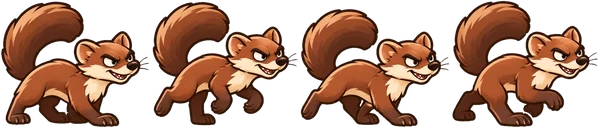
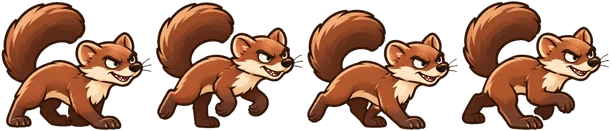
Animazioni: attacco della Faina, camminata e attacco della Mucca, volo del Corvo
Claude-Session: https://claude.ai/code/session_01HfaWZ85fbzKyRqfxnb746i

diff --git a/index.html b/index.html
@@ -1304,8 +1304,13 @@ const ORDERS={
 const IMG={};
 // personaggi animati (cartella icons/anim/): striscia orizzontale di n fotogrammi, il personaggio guarda a destra.
 // stride = pixel percorsi per fotogramma; h = altezza in campo. Chi non è qui usa l'icona nel tondino.
-const ANIM={faina:{src:'icons/anim/faina-walk.webp',n:4,fw:150,fh:128,h:34,stride:7}};
-for(const k in ANIM){ANIM[k].im=new Image();ANIM[k].im.src=ANIM[k].src}
+const ANIM={
+  faina:{h:31,stride:7,walk:{n:4,fw:153,fh:131,ax:.5},atk:{n:4,fw:167,fh:130,ax:.516}},
+  mucca:{h:40,stride:6,walk:{n:4,fw:176,fh:134,ax:.5},atk:{n:4,fw:191,fh:139,ax:.459}},
+  corvo:{h:40,fly:{n:4,fw:153,fh:183,ax:.994,ox:62}},
+};
+// file: icons/anim/<personaggio>-walk|atk|fly.webp; ax = punto d'aggancio nel fotogramma (0 sinistra, 1 destra), ox = suo spostamento dal centro (px a scala 128)
+for(const k in ANIM)for(const m of ['walk','atk','fly'])if(ANIM[k][m]){const a=ANIM[k][m];a.im=new Image();a.im.src=`icons/anim/${k}-${m}.webp`}
 // icone disegnate degli ordini (cartella icons/, file ord-<chiave>.webp); se non si caricano resta l'emoji
 const OIMG={};
 for(const k in ORDERS){ORDERS[k].img='icons/ord-'+k+'.webp';const im=new Image();im.src=ORDERS[k].img;OIMG[k]=im}
@@ -2066,19 +2071,22 @@ function drawToken1(x,y,side,type,star,order,o={}){
   let yy=y; if(d.flying){ctx.fillStyle='rgba(0,0,0,.22)';ctx.beginPath();ctx.ellipse(x,y+10,11,4,0,0,7);ctx.fill();yy=y-12}
   const lx=o.lunge>0?o.face*5:0;
   ctx.globalAlpha=o.invis?.38:o.disguised?.6:1;
-  const A=ANIM[type],sp=A&&A.im.complete&&A.im.naturalWidth;
-  if(sp){// personaggio animato: anello ovale del colore della squadra ai piedi, poi il fotogramma della camminata
-    const fy=y+13,ring=o.col||SIDE[side].col;
+  const A=ANIM[type],ld=a=>a&&a.im.complete&&a.im.naturalWidth,base=A&&(ld(A.walk)?A.walk:ld(A.fly)?A.fly:null),sp=!!base;
+  if(sp){// personaggio animato: anello ovale del colore della squadra ai piedi, poi il fotogramma giusto
+    const fy=y+13,ring=o.col||SIDE[side].col,now=performance.now()/1000;
     if(d.flying){ctx.fillStyle='rgba(0,0,0,.22)';ctx.beginPath();ctx.ellipse(x,y+10,13,4.5,0,0,7);ctx.fill()}
     else{ctx.fillStyle='rgba(0,0,0,.25)';ctx.beginPath();ctx.ellipse(x,fy,15,5.5,0,0,7);ctx.fill()}
-    if(o.sel){ctx.strokeStyle='#fff';ctx.lineWidth=3;ctx.beginPath();ctx.ellipse(x,fy,21,8,0,0,7);ctx.stroke()}
-    ctx.strokeStyle=ring;ctx.lineWidth=3;ctx.beginPath();ctx.ellipse(x,fy,16.5,6,0,0,7);ctx.stroke();
-    if(star>1){ctx.save();if(star===3){ctx.shadowColor='#ffd54a';ctx.shadowBlur=8}ctx.strokeStyle=star===3?'#ffd54a':'#e6ebf2';ctx.lineWidth=2;ctx.beginPath();ctx.ellipse(x,fy,19.5,7.5,0,0,7);ctx.stroke();ctx.restore()}
-    const ph=(o.walk||0)/A.stride,f=o.moving?Math.floor(ph)%A.n:0,bob=o.moving?-Math.abs(Math.sin(ph*Math.PI))*1.6:0;
-    const fh=A.h,fw=fh*A.fw/A.fh,top=(d.flying?yy+10:fy+2)-fh+bob;
+    const ry=d.flying?y+10:fy;
+    if(o.sel){ctx.strokeStyle='#fff';ctx.lineWidth=3;ctx.beginPath();ctx.ellipse(x,ry,21,8,0,0,7);ctx.stroke()}
+    ctx.strokeStyle=ring;ctx.lineWidth=3;ctx.beginPath();ctx.ellipse(x,ry,16.5,6,0,0,7);ctx.stroke();
+    if(star>1){ctx.save();if(star===3){ctx.shadowColor='#ffd54a';ctx.shadowBlur=8}ctx.strokeStyle=star===3?'#ffd54a':'#e6ebf2';ctx.lineWidth=2;ctx.beginPath();ctx.ellipse(x,ry,19.5,7.5,0,0,7);ctx.stroke();ctx.restore()}
+    let sh=base,f=0,bob=0;const AT=.08;
+    if(ld(A.atk)&&o.atk!=null&&o.atk<A.atk.n*AT){sh=A.atk;f=Math.floor(o.atk/AT)}
+    else if(sh===A.fly){f=Math.floor(now*9)%sh.n;bob=Math.sin(now*4)*1.5}
+    else if(o.moving){const ph=(o.walk||0)/A.stride;f=Math.floor(ph)%sh.n;bob=-Math.abs(Math.sin(ph*Math.PI))*1.6}
+    const k=A.h/128,fw=sh.fw*k,fh=sh.fh*k,ax=sh.ax*fw-(sh.ox||0)*k,top=d.flying?yy-fh/2+bob:fy+2-fh+bob,px=sh===base&&o.lunge>0?(o.face||1)*4:0;
     ctx.save();if(o.hit>0)ctx.filter='brightness(1.7) saturate(.6)';
-    if(o.face===-1){ctx.translate(x+lx,0);ctx.scale(-1,1);ctx.drawImage(A.im,f*A.fw,0,A.fw,A.fh,-fw/2,top,fw,fh)}
-    else ctx.drawImage(A.im,f*A.fw,0,A.fw,A.fh,x+lx-fw/2,top,fw,fh);
+    ctx.translate(x+px,0);if(o.face===-1)ctx.scale(-1,1);ctx.drawImage(sh.im,f*sh.fw,0,sh.fw,sh.fh,-ax,top,fw,fh);
     ctx.restore();ctx.font='17px "Apple Color Emoji","Segoe UI Emoji","Noto Color Emoji",sans-serif';ctx.textAlign='center';ctx.textBaseline='middle';
   }else{
     if(o.sel){ctx.strokeStyle='#fff';ctx.lineWidth=3;ctx.beginPath();ctx.arc(x,yy,21,0,7);ctx.stroke()}
@@ -2200,8 +2208,8 @@ function render(){
   for(const u of us){
     if((S.fog||S.mist)&&u.side!==G.me&&!S.units.some(a=>a.alive&&a.side===G.me&&sees(a,u))) continue;
     if(u.def.wall){const hh=u.def.wall*FENCE_L,f=u.hp/u.maxHp;if(f<1){ctx.fillStyle='rgba(0,0,0,.45)';ctx.fillRect(X(u.x)-14,u.y-hh-11,28,5);ctx.fillStyle=SIDE[C(u.side)].col;ctx.fillRect(X(u.x)-14,u.y-hh-11,28*f,5)}continue}
-    {const dd=u._lx==null?0:Math.hypot(u.x-u._lx,u.y-u._ly);u._wd=(u._wd||0)+(dd<20?dd:0);u._mv=dd>.05&&dd<20?.12:Math.max(0,(u._mv||0)-1/60);u._lx=u.x;u._ly=u.y}
-    drawToken(X(u.x),u.y,C(u.side),u.type,u.star,u.order,{walk:u._wd,moving:u._mv>0,col:G.duo&&duoOwner(u)!=null?duoColOf(duoOwner(u)):null,underground:u.underground,invis:u.invis>0,hpf:u.hp/u.maxHp,stun:u.stun,snare:u.snare,hit:u.hit,lunge:u.lunge,face:F?-u.face:u.face,wait:u.wait,turned:u.turned,disguised:u.disguised,boost:u.boostT});
+    {const dd=u._lx==null?0:Math.hypot(u.x-u._lx,u.y-u._ly);u._wd=(u._wd||0)+(dd<20?dd:0);u._mv=dd>.05&&dd<20?.12:Math.max(0,(u._mv||0)-1/60);u._lx=u.x;u._ly=u.y;if(u.lunge>(u._pl||0)+.001)u._at=performance.now();u._pl=u.lunge}
+    drawToken(X(u.x),u.y,C(u.side),u.type,u.star,u.order,{walk:u._wd,moving:u._mv>0,atk:u._at?(performance.now()-u._at)/1000:null,col:G.duo&&duoOwner(u)!=null?duoColOf(duoOwner(u)):null,underground:u.underground,invis:u.invis>0,hpf:u.hp/u.maxHp,stun:u.stun,snare:u.snare,hit:u.hit,lunge:u.lunge,face:F?-u.face:u.face,wait:u.wait,turned:u.turned,disguised:u.disguised,boost:u.boostT});
     if(u.fake) drawEgg(X(u.x),u.y-(u.def.flying?40:28),.7,false);
     if(u.carrying!==null) drawEgg(X(u.x),u.y-(u.def.flying?40:28),.7,false);
     if(u.lb>0){ctx.font='11px "Apple Color Emoji","Segoe UI Emoji","Noto Color Emoji",sans-serif';ctx.textAlign='center';ctx.fillText('💨',X(u.x)-(F?-1:1)*u.face*18,u.y-22)}

diff --git a/sw.js b/sw.js
@@ -33,7 +33,11 @@ const PRECACHE=[
  "icons/coltivatore.webp",
  "icons/corvo.webp",
  "icons/faina.webp",
+ "icons/anim/corvo-fly.webp",
+ "icons/anim/faina-atk.webp",
  "icons/anim/faina-walk.webp",
+ "icons/anim/mucca-atk.webp",
+ "icons/anim/mucca-walk.webp",
  "icons/falco.webp",
  "icons/gallico.webp",
  "icons/gatto.webp",
